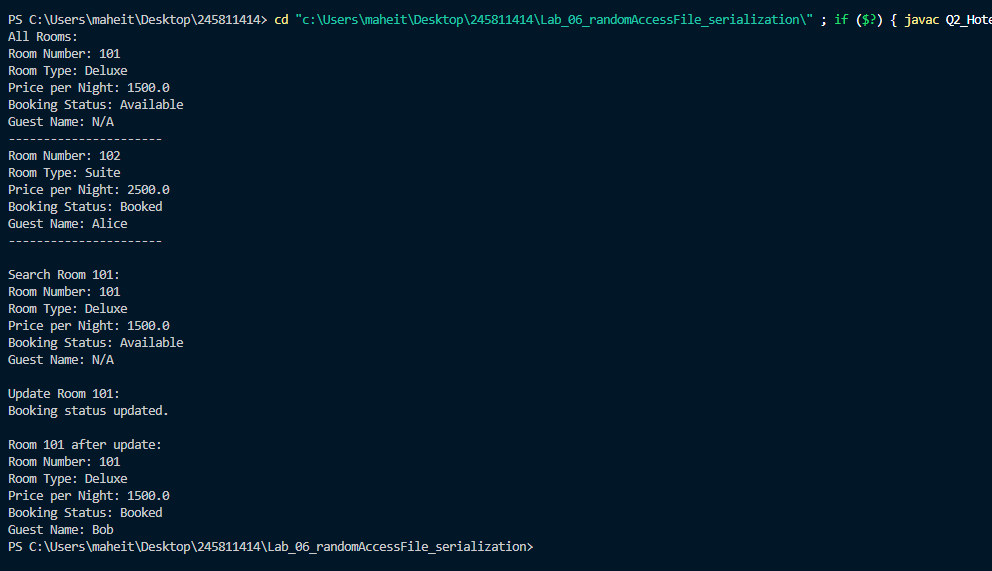
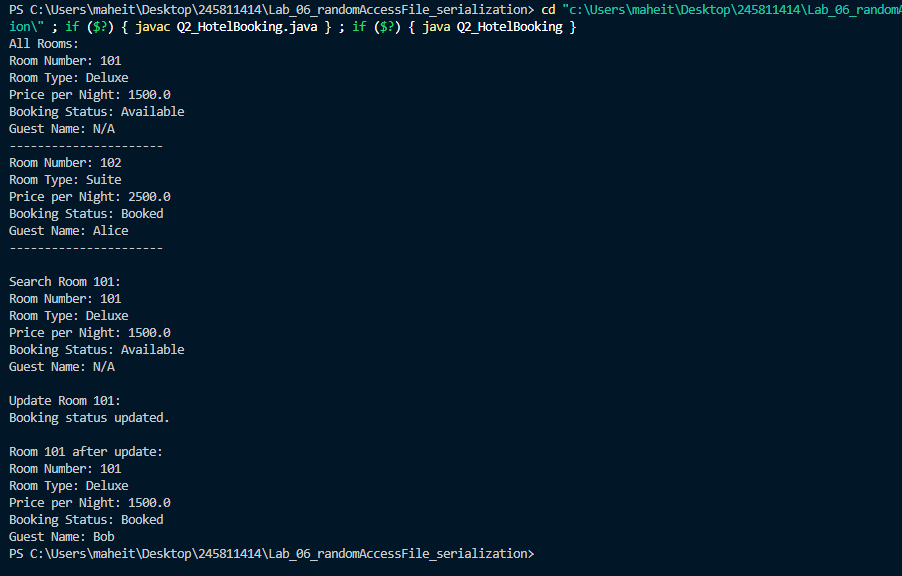
Lab 6 extra ques

diff --git a/Lab_06_randomAccessFile_serialization/Q2_HotelBooking.java b/Lab_06_randomAccessFile_serialization/Q2_HotelBooking.java
@@ -2,26 +2,26 @@ import java.io.*;
 import java.util.*;
 
 class Room implements Serializable {
-    private static final long serialVersionUID = 1L;
-    private int roomNumber;
-    private String roomType;
-    private double pricePerNight;
-    private boolean bookingStatus;
-    private String guestName;
+    static final long serialVersionUID = 1L;
+    int roomNumber;
+    String roomType;
+    double pricePerNight;
+    boolean status;
+    String name;
 
-    public Room(int roomNumber, String roomType, double pricePerNight, boolean bookingStatus, String guestName) {
+    public Room(int roomNumber, String roomType, double pricePerNight, boolean status, String name) {
         this.roomNumber = roomNumber;
         this.roomType = roomType;
         this.pricePerNight = pricePerNight;
-        this.bookingStatus = bookingStatus;
-        this.guestName = guestName;
+        this.status = status;
+        this.name = name;
     }
 
     public int getRoomNumber() { return roomNumber; }
-    public boolean isBooked() { return bookingStatus; }
-    public void setBookingStatus(boolean status, String guestName) {
-        this.bookingStatus = status;
-        this.guestName = guestName;
+    public boolean isBooked() { return status; }
+    public void setstatus(boolean status, String name) {
+        this.status = status;
+        this.name = name;
     }
 
     @Override
@@ -29,22 +29,22 @@ class Room implements Serializable {
         return "Room Number: " + roomNumber +
                "\nRoom Type: " + roomType +
                "\nPrice per Night: " + pricePerNight +
-               "\nBooking Status: " + (bookingStatus ? "Booked" : "Available") +
-               "\nGuest Name: " + (guestName == null ? "N/A" : guestName);
+               "\nBooking Status: " + (status ? "Booked" : "Available") +
+               "\nGuest Name: " + (name == null ? "N/A" : name);
     }
 }
 
 public class Q2_HotelBooking {
-    private static final String FILE_NAME = "rooms.ser";
+    static final String FILE_NAME = "rooms2.bin";
 
-    private static void saveRooms(List<Room> rooms) throws IOException {
+    static void saveRooms(List<Room> rooms) throws IOException {
         try (ObjectOutputStream oos = new ObjectOutputStream(new FileOutputStream(FILE_NAME))) {
             oos.writeObject(rooms);
         }
     }
 
     @SuppressWarnings("unchecked")
-    private static List<Room> loadRooms() throws IOException, ClassNotFoundException {
+    static List<Room> loadRooms() throws IOException, ClassNotFoundException {
         File file = new File(FILE_NAME);
         if (!file.exists()) return new ArrayList<>();
         try (ObjectInputStream ois = new ObjectInputStream(new FileInputStream(FILE_NAME))) {
@@ -77,11 +77,11 @@ public class Q2_HotelBooking {
         System.out.println("Room not found.");
     }
 
-    public static void updateBookingStatus(int roomNumber, boolean status, String guestName) throws IOException, ClassNotFoundException {
+    public static void updatestatus(int roomNumber, boolean status, String name) throws IOException, ClassNotFoundException {
         List<Room> rooms = loadRooms();
         for (Room room : rooms) {
             if (room.getRoomNumber() == roomNumber) {
-                room.setBookingStatus(status, guestName);
+                room.setstatus(status, name);
                 saveRooms(rooms);
                 System.out.println("Booking status updated.");
                 return;
@@ -102,7 +102,7 @@ public class Q2_HotelBooking {
             searchRoom(101);
 
             System.out.println("\nUpdate Room 101:");
-            updateBookingStatus(101, true, "Bob");
+            updatestatus(101, true, "Bob");
 
             System.out.println("\nRoom 101 after update:");
             searchRoom(101);

diff --git a/Lab_06_randomAccessFile_serialization/QE8_StudentProgram.java b/Lab_06_randomAccessFile_serialization/QE8_StudentProgram.java
@@ -1,0 +1,112 @@
+/*
+8.  Create a student class with name and sessional marks as its data members, use constructor to initialize the object and a method to display the student details
+
+9.  Write a program to write 5 students objects into a "student.txt"
+    Also read the contents of the file and display only those students detail whos sessional marks are above 10
+
+10.  Write a java program to read the students detail from student.txt and display only those students details whose total marks is more than 20. 
+
+11.  write a java program to insert the following details into the student.txt  
+    Anil 12 13
+    Sunil 8 9 
+    Rahul 13 11
+*/
+
+import java.io.*;
+
+class Student {
+    private String name;
+    private int mark1;
+    private int mark2;
+
+    public Student(String name, int mark1, int mark2) {
+        this.name = name;
+        this.mark1 = mark1;
+        this.mark2 = mark2;
+    }
+
+    public int getSessionalMarks() {
+        return mark1; 
+    }
+
+    public int getTotal() {
+        return mark1 + mark2;
+    }
+
+    public void display() {
+        System.out.println("Name: " + name + ", Marks: " + mark1 + ", " + mark2 + ", Total: " + getTotal());
+    }
+
+    public String toLine() {
+        return name + " " + mark1 + " " + mark2;
+    }
+
+    public static Student fromLine(String line) {
+        String[] parts = line.split("\\s+");
+        if (parts.length == 3) {
+            String name = parts[0];
+            int m1 = Integer.parseInt(parts[1]);
+            int m2 = Integer.parseInt(parts[2]);
+            return new Student(name, m1, m2);
+        }
+        return null;
+    }
+}
+
+public class QE8_StudentProgram {
+    public static void main(String[] args) {
+        try {
+            
+            Student[] students = {
+                new Student("Anil", 12, 13),
+                new Student("Sunil", 8, 9),
+                new Student("Rahul", 13, 11),
+                new Student("Priya", 15, 7),
+                new Student("Neha", 9, 14)
+            };
+
+            BufferedWriter bw = new BufferedWriter(new FileWriter("./fileout/student.txt"));
+            for (Student s : students) {
+                bw.write(s.toLine());
+                bw.newLine();
+            }
+            bw.close();
+
+            BufferedReader br = new BufferedReader(new FileReader("./fileout/student.txt"));
+            System.out.println("Students with sessional marks > 10:");
+            String line;
+            while ((line = br.readLine()) != null) {
+                Student s = Student.fromLine(line);
+                if (s != null && s.getSessionalMarks() > 10) {
+                    s.display();
+                }
+            }
+            br.close();
+
+            br = new BufferedReader(new FileReader("./fileout/student.txt"));
+            System.out.println("\nStudents with total marks > 20:");
+            while ((line = br.readLine()) != null) {
+                Student s = Student.fromLine(line);
+                if (s != null && s.getTotal() > 20) {
+                    s.display();
+                }
+            }
+            br.close();
+
+            RandomAccessFile raf = new RandomAccessFile("./fileout/student.txt", "rw");
+            raf.seek(raf.length()); 
+            raf.writeBytes("Ramesh 10 12\n");
+            raf.close();
+
+            br = new BufferedReader(new FileReader("./fileout/student.txt"));
+            System.out.println("\nRaw contents of student.txt:");
+            while ((line = br.readLine()) != null) {
+                System.out.println(line);
+            }
+            br.close();
+
+        } catch (Exception e) {
+            e.printStackTrace();
+        }
+    }
+}

diff --git a/Lab_06_randomAccessFile_serialization/QE4_DuplicateFiles.java b/Lab_06_randomAccessFile_serialization/QE4_DuplicateFiles.java
@@ -1,0 +1,37 @@
+/* 4.  Consider a directory MIT/ICT which contains java files, out of which one file is the replica of another file. Write a java program to find those 2 files.  */
+
+import java.io.File;
+import java.io.IOException;
+import java.nio.file.Files;
+import java.nio.file.Path;
+
+public class QE4_DuplicateFiles {
+
+    public static void main(String[] args) throws IOException {
+        File dir = new File("MIT/ICT");
+        File[] files = dir.listFiles((d, name) -> name.endsWith(".java"));
+
+        if (files == null || files.length < 2) {
+            System.out.println("Not enough files to compare.");
+            return;
+        }
+
+        int flag = 0;
+        for (int i = 0; i < files.length; i++) {
+            for (int j = i + 1; j < files.length; j++) {
+                Path p1 = files[i].toPath();
+                Path p2 = files[j].toPath();
+
+                long result = Files.mismatch(p1, p2);
+
+                if (result == -1) {
+                    flag = 1;
+                    System.out.println("Duplicate found: " + files[i].getName() + " and " + files[j].getName());
+                }
+            }
+        }
+        if (flag == 0) {
+            System.err.println("No duplicate files");
+        }
+    }
+}

diff --git a/Lab_06_randomAccessFile_serialization/QE6_HighestMark.java b/Lab_06_randomAccessFile_serialization/QE6_HighestMark.java
@@ -1,0 +1,24 @@
+/* 6.  consider a file student.txt which contains the following info:
+    ( regno : name : mark ) where the fields are separated by : 
+    Write a java program to display the student who scored the highest marks.
+*/
+
+import java.io.*;
+
+public class QE6_HighestMark {
+    public static void main(String[] args) throws IOException {
+        RandomAccessFile raf = new RandomAccessFile("./data/student.txt", "r");
+        String line, topStudent = "";
+        int max = -1;
+        while ((line = raf.readLine()) != null) {
+            String[] parts = line.split(":");
+            int mark = Integer.parseInt(parts[2]);
+            if (mark > max) {
+                max = mark;
+                topStudent = parts[1];
+            }
+        }
+        raf.close();
+        System.out.println("Topper is " + topStudent + " with marks: " + max);
+    }
+}

diff --git a/Lab_06_randomAccessFile_serialization/QE5_RemoveComments.java b/Lab_06_randomAccessFile_serialization/QE5_RemoveComments.java
@@ -1,0 +1,23 @@
+/*5.  Write a java program to remove the comments from the file. */
+
+import java.io.*;
+
+public class QE5_RemoveComments {
+    public static void main(String[] args) throws IOException {
+
+        String inloc = "./data/QE5.java";
+        String outloc = "./fileout/QE5.java";
+        RandomAccessFile raf = new RandomAccessFile(inloc, "r");
+        BufferedWriter bw = new BufferedWriter(new FileWriter(outloc));
+        String line;
+        while ((line = raf.readLine()) != null) {
+            line = line.replaceAll("//.*", ""); // remove single-line comments
+            line = line.replaceAll("/\\*.*?\\*/", ""); // remove block comments
+            bw.write(line);
+            bw.newLine();
+        }
+        raf.close();
+        bw.close();
+        System.err.println("Removed comments and saved to: " + outloc );
+    }
+}

diff --git a/Lab_06_randomAccessFile_serialization/QE7_PalindromeWriter.java b/Lab_06_randomAccessFile_serialization/QE7_PalindromeWriter.java
@@ -1,0 +1,22 @@
+/* 7.  Write a java program to write all palindrome into a new file. */
+
+import java.io.*;
+
+public class QE7_PalindromeWriter {
+    public static void main(String[] args) throws IOException {
+        RandomAccessFile raf = new RandomAccessFile("./data/words.txt", "r");
+        BufferedWriter bw = new BufferedWriter(new FileWriter("./fileout/palindromes.txt"));
+        String word;
+        while ((word = raf.readLine()) != null) {
+            if (isPalindrome(word)) {
+                bw.write(word);
+                bw.newLine();
+            }
+        }
+        raf.close();
+        bw.close();
+    }
+    static boolean isPalindrome(String s) {
+        return s.equalsIgnoreCase(new StringBuilder(s).reverse().toString());
+    }
+}

diff --git a/Lab_06_randomAccessFile_serialization/QE3_WordOccurrence.java b/Lab_06_randomAccessFile_serialization/QE3_WordOccurrence.java
@@ -1,0 +1,19 @@
+/*3.  Write a java program to find the occurence of word in a given file*/
+
+import java.io.*;
+
+public class QE3_WordOccurrence {
+    public static void main(String[] args) throws IOException {
+        RandomAccessFile raf = new RandomAccessFile("./data/QE3.txt", "r");
+        String word = "java";
+        int count = 0;
+        String line;
+        while ((line = raf.readLine()) != null) {
+            for (String w : line.split("\\s+")) {
+                if (w.equalsIgnoreCase(word)) count++;
+            }
+        }
+        raf.close();
+        System.out.println("Occurrence of '" + word + "': " + count);
+    }
+}

diff --git a/Lab_06_randomAccessFile_serialization/data/QE5.java b/Lab_06_randomAccessFile_serialization/data/QE5.java
@@ -1,0 +1,7 @@
+public class QE5 {
+    public static void main(String[] args) {
+        // This is a single-line comment
+        System.out.println("Hello"); /* Inline block comment */
+        System.out.println("World"); // comment
+    }
+}

diff --git a/Lab_06_randomAccessFile_serialization/Q1_HotelBooking.java b/Lab_06_randomAccessFile_serialization/Q1_HotelBooking.java
@@ -72,6 +72,7 @@ public class Q1_HotelBooking {
         addRoom(102, "Suite", 2500.0, true);
 
         viewRoom(101);
+        viewRoom(102);
         updateStatus(101, true);
         viewRoom(101);
     }

diff --git a/Lab_06_randomAccessFile_serialization/fileout/QE5.java b/Lab_06_randomAccessFile_serialization/fileout/QE5.java
@@ -1,0 +1,7 @@
+public class QE5 {
+    public static void main(String[] args) {
+        
+        System.out.println("Hello"); 
+        System.out.println("World"); 
+    }
+}

diff --git a/Lab_06_randomAccessFile_serialization/MIT/ICT/File3.java b/Lab_06_randomAccessFile_serialization/MIT/ICT/File3.java
@@ -1,0 +1,5 @@
+public class File3 {
+    public static void main(String[] args) {
+        System.out.println("Hello World 2");
+    }
+}

diff --git a/Lab_06_randomAccessFile_serialization/MIT/ICT/File1.java b/Lab_06_randomAccessFile_serialization/MIT/ICT/File1.java
@@ -1,0 +1,5 @@
+public class File1 {
+    public static void main(String[] args) {
+        System.out.println("Hello World");
+    }
+}
